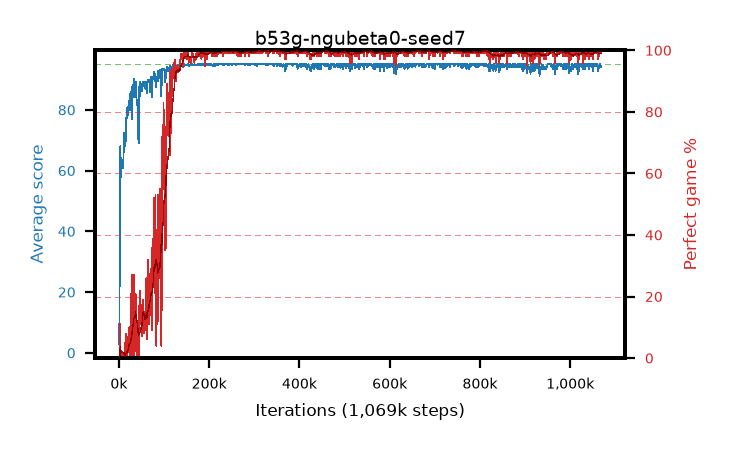
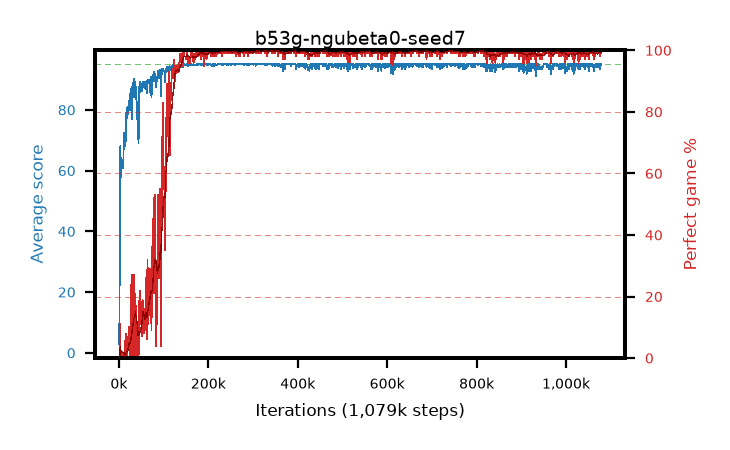
live pictures of 4 arm(s)

diff --git a/results/b53g-ngubeta0-seed7/b53g-ngubeta0-seed7.md b/results/b53g-ngubeta0-seed7/b53g-ngubeta0-seed7.md
@@ -1,6 +1,6 @@
 # b53g-ngubeta0-seed7
 
-step **1,069,000** · 1069 evals · trailing **94.42** · peak **94.97** @274,000 · sef **89.6** · best30 **99.8** @348,000
+step **1,079,000** · 1079 evals · trailing **94.43** · peak **94.97** @274,000 · sef **89.7** · best30 **99.8** @348,000
 
 ## Config
 
@@ -80,15 +80,15 @@ step **1,069,000** · 1069 evals · trailing **94.42** · peak **94.97** @274,00
 | 2000 | 37.8 | 20.34 | 6.0 | 63.0 | 32.628 | 0.0 | 0.4 |
 | 3000 | 67.99 | 36.22 | 23.0 | 95.0 | 74.006 | 11.0 | 0.4 |
 | ... | ... | ... | ... | ... | ... | ... | ... |
-| 1058000 | 95.0 | 94.59 | 95.0 | 95.0 | 193.79 | 100.0 | 0.4 |
-| 1059000 | 94.31 | 94.56 | 26.0 | 95.0 | 192.063 | 99.0 | 0.4 |
-| 1060000 | 95.0 | 94.59 | 95.0 | 95.0 | 193.783 | 100.0 | 0.4 |
-| 1061000 | 94.32 | 94.57 | 27.0 | 95.0 | 192.072 | 99.0 | 0.4 |
-| 1062000 | 92.84 | 94.55 | 20.0 | 95.0 | 188.516 | 97.0 | 0.4 |
-| 1063000 | 93.55 | 94.5 | 19.0 | 95.0 | 190.261 | 98.0 | 0.4 |
-| 1064000 | 94.05 | 94.47 | 5.0 | 95.0 | 190.803 | 98.0 | 0.4 |
-| 1065000 | 94.09 | 94.44 | 4.0 | 95.0 | 191.838 | 99.0 | 0.4 |
-| 1066000 | 95.0 | 94.44 | 95.0 | 95.0 | 193.792 | 100.0 | 0.4 |
-| 1067000 | 95.0 | 94.44 | 95.0 | 95.0 | 193.788 | 100.0 | 0.4 |
 | 1068000 | 94.2 | 94.44 | 15.0 | 95.0 | 191.953 | 99.0 | 0.4 |
 | 1069000 | 94.28 | 94.42 | 23.0 | 95.0 | 192.029 | 99.0 | 0.4 |
+| 1070000 | 94.26 | 94.39 | 21.0 | 95.0 | 192.005 | 99.0 | 0.4 |
+| 1071000 | 94.13 | 94.39 | 8.0 | 95.0 | 191.869 | 99.0 | 0.4 |
+| 1072000 | 95.0 | 94.44 | 95.0 | 95.0 | 193.782 | 100.0 | 0.4 |
+| 1073000 | 94.2 | 94.44 | 15.0 | 95.0 | 191.944 | 99.0 | 0.4 |
+| 1074000 | 95.0 | 94.44 | 95.0 | 95.0 | 193.789 | 100.0 | 0.4 |
+| 1075000 | 94.98 | 94.46 | 93.0 | 95.0 | 192.715 | 99.0 | 0.4 |
+| 1076000 | 93.45 | 94.41 | 16.0 | 95.0 | 190.157 | 98.0 | 0.4 |
+| 1077000 | 95.0 | 94.41 | 95.0 | 95.0 | 193.79 | 100.0 | 0.4 |
+| 1078000 | 94.8 | 94.43 | 75.0 | 95.0 | 192.54 | 99.0 | 0.4 |
+| 1079000 | 95.0 | 94.43 | 95.0 | 95.0 | 193.783 | 100.0 | 0.4 |
